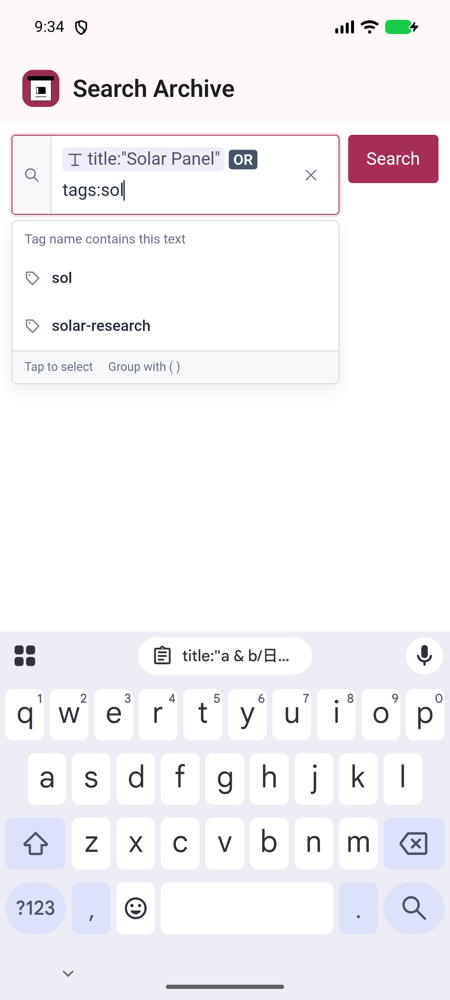
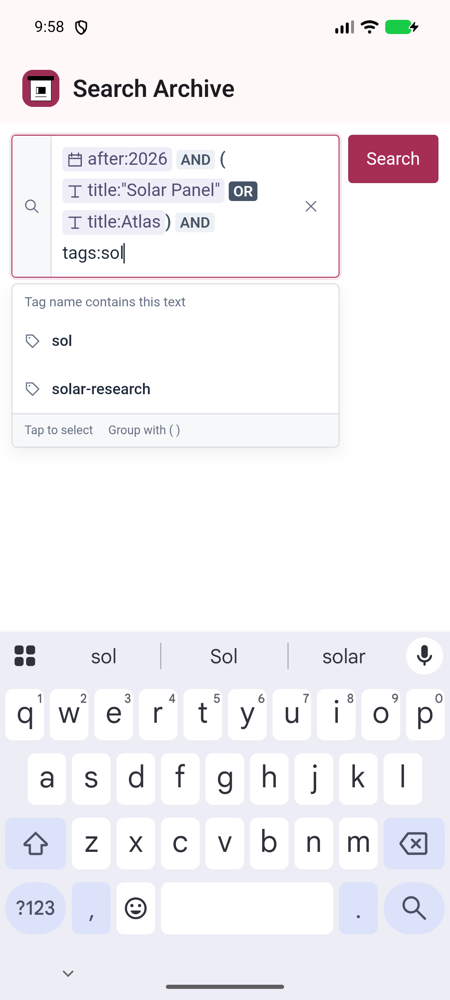
Preserve scoped search during progressive loads and activity recreation

diff --git a/app/src/main/java/io/archivebox/app/ui/ServerBrowser.kt b/app/src/main/java/io/archivebox/app/ui/ServerBrowser.kt
@@ -21,6 +21,7 @@ import androidx.compose.ui.unit.dp
 import androidx.compose.ui.viewinterop.AndroidView
 import io.archivebox.app.data.*
 import io.archivebox.app.BuildConfig
+import kotlinx.coroutines.delay
 import kotlinx.coroutines.suspendCancellableCoroutine
 import kotlinx.coroutines.Dispatchers
 import kotlinx.coroutines.withContext
@@ -41,6 +42,15 @@ internal fun allowedArchiveOrigin(url: String, server: String, adminUrl: String)
 }
 
 internal const val SNAPSHOT_GRID_PATH = "admin/core/snapshot/grid/"
+
+// OkHttp and Android expose encoded paths; compare the reverse proxy's prefix
+// in the same representation so spaces and reserved delimiters survive rotation.
+internal fun searchRoute(base: URI, encodedPath: String?): String? = when (encodedPath) {
+    base.resolve("core/snapshot/").rawPath -> "admin/core/snapshot/"
+    base.resolve("core/snapshot/grid/").rawPath -> SNAPSHOT_GRID_PATH
+    base.resolve("../$SEARCH_EDITOR_PATH").rawPath -> SEARCH_EDITOR_PATH
+    else -> null
+}
 
 internal enum class SnapshotTransferMenu(val menuID: String) {
     Import("library-import-menu"),
@@ -126,17 +136,27 @@ internal enum class SnapshotTransferMenu(val menuID: String) {
                         return document.activeElement === field;
                     }
                 }
-                return false;
+                // Some library pages (such as Domains) load their table and its
+                // search form together after the top-level document finishes.
+                return document.readyState !== 'complete' || document.querySelector('[aria-busy="true"]') ? null : false;
             })();
         """.trimIndent()
         view.requestFocus()
-        val focused = suspendCancellableCoroutine { continuation ->
-            view.evaluateJavascript(focusEditor) { result ->
-                if (continuation.isActive) continuation.resume(result == "true")
+        val deadline = SystemClock.uptimeMillis() + 4_000
+        var result: String
+        do {
+            result = suspendCancellableCoroutine { continuation ->
+                view.evaluateJavascript(focusEditor) { value ->
+                    if (continuation.isActive) continuation.resume(value)
+                }
             }
-        }
-        if (focused) context.getSystemService(InputMethodManager::class.java).showSoftInput(view, 0)
-        complete(focused)
+            if (result != "null" || SystemClock.uptimeMillis() >= deadline) break
+            delay(120)
+        } while (true)
+        if (result == "true") context.getSystemService(InputMethodManager::class.java).showSoftInput(view, 0)
+        // A stalled library table still owns its search. Only a confirmed
+        // absence may move the user to the whole-archive editor.
+        complete(result != "false")
     }
     BackHandler(canBack) { browser?.goBack() }
     DisposableEffect(connection) {
@@ -216,7 +236,7 @@ internal enum class SnapshotTransferMenu(val menuID: String) {
                                 ready = false; error = null; canBack = view.canGoBack()
                             }
                             override fun onPageFinished(view: WebView, url: String) {
-                                if (fallbackPage != null && URI(url).path == base.resolve("../$SEARCH_EDITOR_PATH").path) return
+                                if (fallbackPage != null && searchRoute(base, url.toHttpUrlOrNull()?.encodedPath) == SEARCH_EDITOR_PATH) return
                                 if (url == fallbackPage) {
                                     // The unavailable editor was the entry page. Back must not reopen its 404.
                                     view.clearHistory()
@@ -234,12 +254,7 @@ internal enum class SnapshotTransferMenu(val menuID: String) {
                                 val record = searchPageCallback ?: return
                                 if (view !== browser || url != view.url || !sameOrigin(url, authenticated.admin_url)) return
                                 val page = url.toHttpUrlOrNull() ?: return
-                                val route = when (page.encodedPath) {
-                                    base.resolve("core/snapshot/").path -> "admin/core/snapshot/"
-                                    base.resolve("core/snapshot/grid/").path -> SNAPSHOT_GRID_PATH
-                                    base.resolve("../$SEARCH_EDITOR_PATH").path -> SEARCH_EDITOR_PATH
-                                    else -> return
-                                }
+                                val route = searchRoute(base, page.encodedPath) ?: return
                                 // Remember the URL for rotation. Mark this navigation as already loaded
                                 // so Compose's update block does not restart an active result stream.
                                 view.tag = url
@@ -248,8 +263,7 @@ internal enum class SnapshotTransferMenu(val menuID: String) {
                             override fun onReceivedError(view: WebView, request: WebResourceRequest, failure: WebResourceError) { if (request.isForMainFrame) { ready = false; error = "Couldn't load this page. ${failure.description}" } }
                             override fun onReceivedHttpError(view: WebView, request: WebResourceRequest, response: WebResourceResponse) {
                                 if (!request.isForMainFrame) return
-                                val editor = base.resolve("../$SEARCH_EDITOR_PATH")
-                                if (response.statusCode == 404 && request.url.path == editor.path &&
+                                if (response.statusCode == 404 && searchRoute(base, request.url.encodedPath) == SEARCH_EDITOR_PATH &&
                                     sameOrigin(request.url.toString(), authenticated.admin_url)) {
                                     // Older servers still expose their own supported Snapshot search.
                                     val fallback = archiveSearchPath(request.url.getQueryParameter("q").orEmpty())

diff --git a/app/src/androidTest/java/io/archivebox/app/ServerSearchIntegrationTest.kt b/app/src/androidTest/java/io/archivebox/app/ServerSearchIntegrationTest.kt
@@ -52,6 +52,17 @@ class ServerSearchIntegrationTest {
         await("browser.ready")
     }
 
+    private val currentUrl = Atoms.script("return location.href;", Atoms.castOrDie(String::class.java))
+
+    private fun waitForSubmittedQuery(query: String): Uri {
+        // The admin updates history when streamed results arrive; the document
+        // remains ready throughout, so wait for the actual submitted URL.
+        compose.waitUntil(30_000) {
+            Uri.parse(onWebView().perform(currentUrl).get()).getQueryParameter("q") == query
+        }
+        return Uri.parse(onWebView().perform(currentUrl).get())
+    }
+
     @Test fun submitAndReopenQuotedQuery() {
         connect()
         compose.onNodeWithTag("tab.Search").performClick()
@@ -60,11 +71,10 @@ class ServerSearchIntegrationTest {
         enterServerSearch(query)
         submitServerSearch()
         await("browser.ready")
-        val result = Atoms.script("return new URL(location.href).searchParams.get('q');", Atoms.castOrDie(String::class.java))
-        onWebView().check(webMatches(result, equalTo(query)))
+        val submitted = waitForSubmittedQuery(query)
         // A recreated Activity must restore results, including the encoded expression.
         recreateActivity()
-        onWebView().check(webMatches(result, equalTo(query)))
+        onWebView().check(webMatches(currentUrl, equalTo(submitted.toString())))
         compose.onNodeWithTag("tab.Archive").performClick()
         compose.onNodeWithTag("sidebar.searchField").performClick()
         await("browser.ready")
@@ -81,7 +91,6 @@ class ServerSearchIntegrationTest {
         onWebView().withElement(findElement(Locator.CSS_SELECTOR, "a[href*='tags__id__exact=']"))
             .perform(webClick())
         await("browser.ready")
-        val currentUrl = Atoms.script("return location.href;", Atoms.castOrDie(String::class.java))
         val filtered = Uri.parse(onWebView().perform(currentUrl).get())
         val tag = filtered.getQueryParameter("tags__id__exact")
         assertNotNull("The tag count link must open a tag-filtered Snapshot view", tag)
@@ -92,17 +101,12 @@ class ServerSearchIntegrationTest {
         val fieldFocused = Atoms.script(
             "return document.activeElement.matches('[role=search] [role=combobox], [role=search] input[name=q]');",
             Atoms.castOrDie(Boolean::class.javaObjectType))
-        onWebView().check(webMatches(fieldFocused, equalTo(true)))
+        compose.waitUntil(30_000) { onWebView().perform(fieldFocused).get() }
         onWebView().check(webMatches(currentUrl, equalTo(filtered.toString())))
         enterServerSearch("https")
         submitServerSearch()
         await("browser.ready")
-        // The admin updates history when streamed results arrive; its document
-        // remains ready throughout, so wait for the actual submitted URL here.
-        compose.waitUntil(30_000) {
-            Uri.parse(onWebView().perform(currentUrl).get()).getQueryParameter("q") == "https"
-        }
-        val submitted = Uri.parse(onWebView().perform(currentUrl).get())
+        val submitted = waitForSubmittedQuery("https")
         assertEquals(filtered.path, submitted.path)
         assertEquals(tag, submitted.getQueryParameter("tags__id__exact"))
         assertEquals("https", submitted.getQueryParameter("q"))

diff --git a/app/src/main/java/io/archivebox/app/ui/ArchiveBoxApp.kt b/app/src/main/java/io/archivebox/app/ui/ArchiveBoxApp.kt
@@ -84,6 +84,7 @@ internal class NavigationState : ViewModel() {
     var transferMenu by rememberSaveable { mutableStateOf<SnapshotTransferMenu?>(null) }
     var focusViewSearch by remember(connection?.id) { mutableStateOf<((Boolean) -> Unit)?>(null) }
     var searchText by rememberSaveable(connection?.id) { mutableStateOf("") }
+    var activityPath by rememberSaveable(connection?.id) { mutableStateOf("admin/") }
     var searchPath by rememberSaveable(connection?.id) { mutableStateOf(searchEditorPath("")) }
     var previousServerId by rememberSaveable { mutableStateOf(connection?.id) }
     var menuServerId by rememberSaveable { mutableStateOf(connection?.id) }
@@ -109,6 +110,7 @@ internal class NavigationState : ViewModel() {
     fun navigateTo(destination: String, closeBrowser: Boolean = false) {
         noteUserNavigation()
         if (destination == "Search") searchPath = searchEditorPath(searchText)
+        if (destination == "Activity") activityPath = "admin/"
         screen = destination
         if (closeBrowser) { browserPath = null; transferMenu = null }
     }
@@ -262,7 +264,8 @@ internal class NavigationState : ViewModel() {
                             if (query != null) searchText = query
                         })
                         screen == "Search" -> ConnectPrompt { navigateTo("Settings") }
-                        screen == "Activity" && c != null -> ServerBrowser(repository, c, "admin/", focusSearch = focusViewSearch)
+                        screen == "Activity" && c != null -> ServerBrowser(repository, c, activityPath,
+                            focusSearch = focusViewSearch, onSearchPage = { path, _ -> activityPath = path })
                         screen == "Activity" -> ConnectPrompt { navigateTo("Settings") }
                         else -> HomeScreen(c, savedServers,
                             phoneHome = phoneHome, progress = progress, listState = menuState, onSwitch = switchServer,

diff --git a/app/src/test/java/io/archivebox/app/data/AddressTest.kt b/app/src/test/java/io/archivebox/app/data/AddressTest.kt
@@ -3,8 +3,18 @@ package io.archivebox.app.data
 import org.junit.Assert.*
 import org.junit.Test
 import io.archivebox.app.ui.allowedArchiveOrigin
+import io.archivebox.app.ui.searchRoute
+import java.net.URI
 
 class AddressTest {
+    @Test fun filteredSearchRoutesPreserveAnEncodedProxyPrefix() {
+        val base = URI("https://archive.example/Plant%20Archive/admin/")
+        assertEquals("admin/core/snapshot/grid/", searchRoute(base, "/Plant%20Archive/admin/core/snapshot/grid/"))
+        assertEquals("admin/core/snapshot/", searchRoute(base, "/Plant%20Archive/admin/core/snapshot/"))
+        assertEquals("public/search-field/", searchRoute(base, "/Plant%20Archive/public/search-field/"))
+        assertNull(searchRoute(base, "/other/admin/core/snapshot/"))
+    }
+
     @Test fun bareDeviceUsesArchiveBoxPortAndExplicitUrlsRetainTheirPorts() {
         assertEquals("http://archivebox.local:5797/", normalizeServer("archivebox.local"))
         assertEquals("http://100.65.2.3:5797/", normalizeServer("100.65.2.3"))
